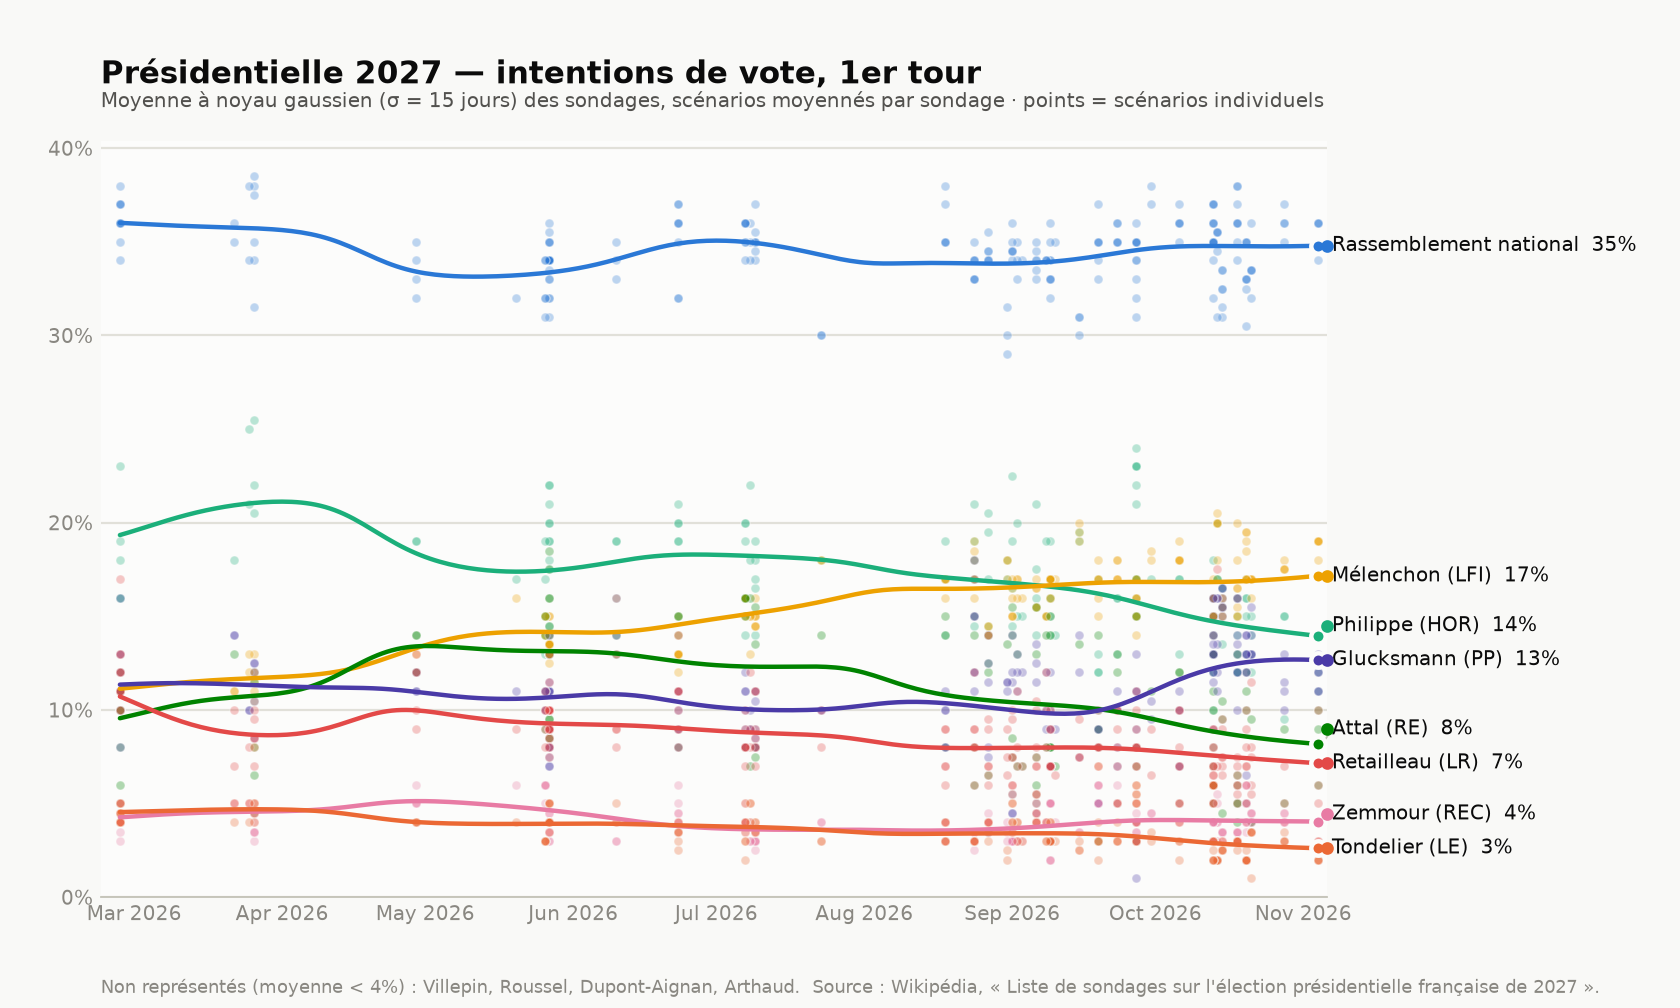
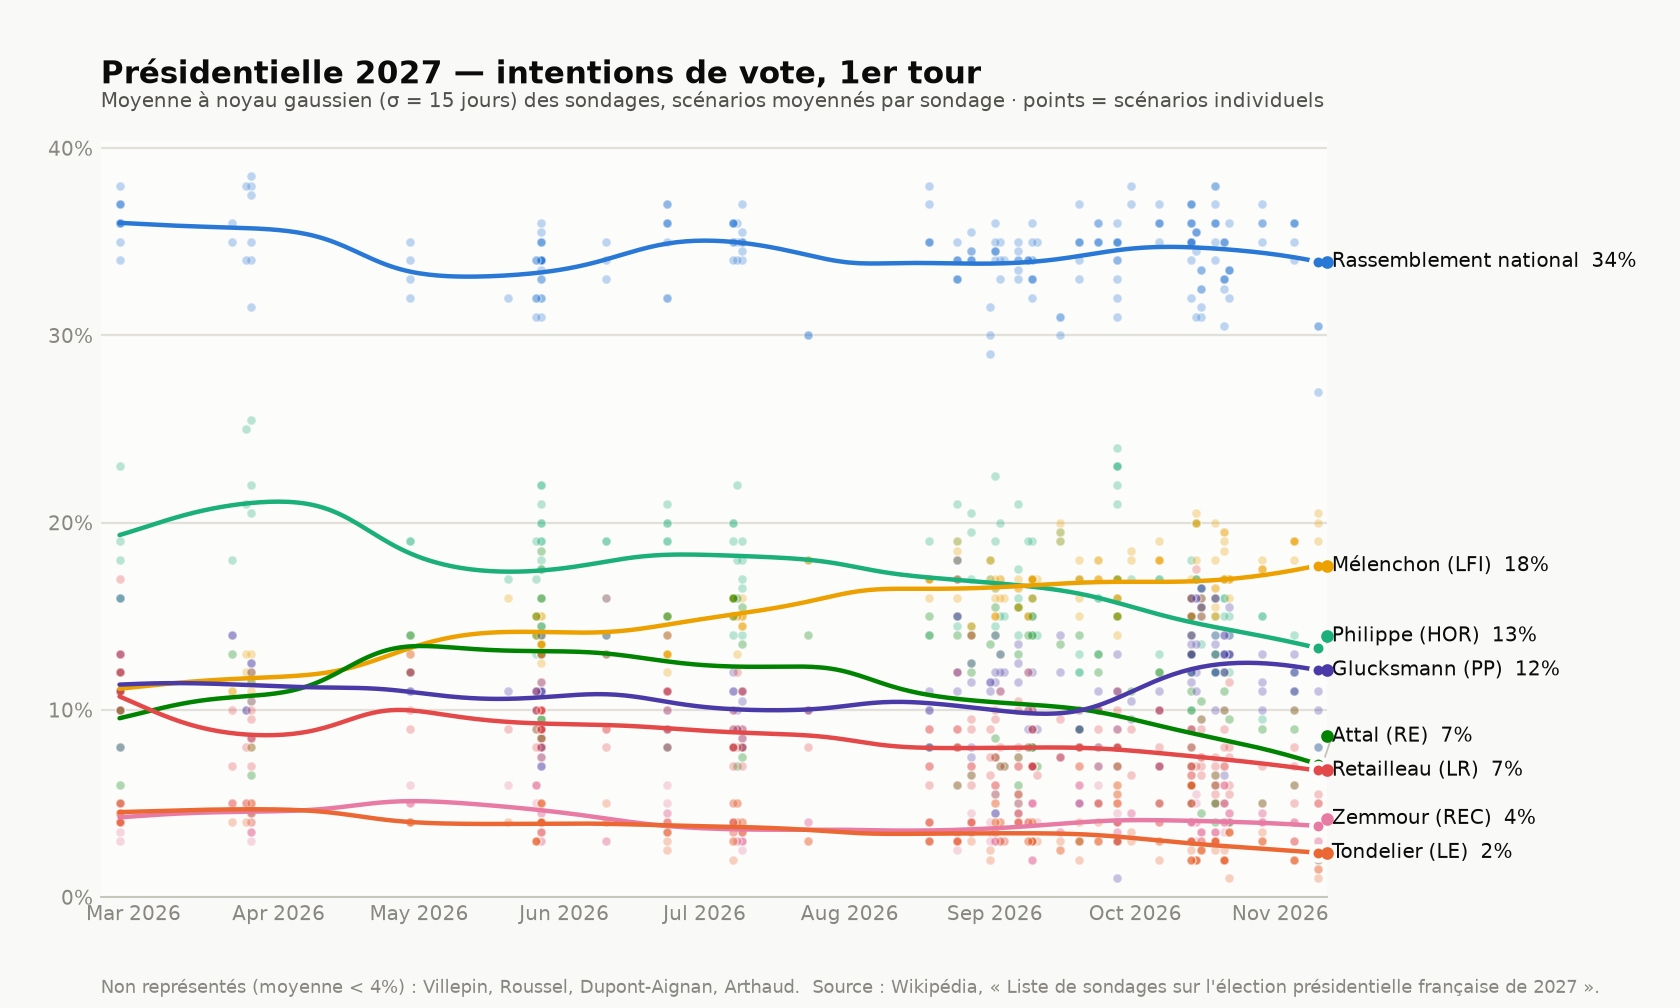
Add Cluster17 9-10 November 2026 poll (n=1164)
Three scenarios, RN (Le Pen) 27-30.5%. Christine Lagarde tested as an
independent candidate in two scenarios (8-14%), routed to Autre.

diff --git a/README.md b/README.md
@@ -61,7 +61,7 @@ python3 parse_polls.py /tmp/frelec_raw.wiki polls_2027_second_round.csv --second
 First-round voting-intention polls, January–November 2026, scraped from the French
 Wikipedia article
 ["Liste de sondages sur l'élection présidentielle française de 2027"](https://fr.wikipedia.org/wiki/Liste_de_sondages_sur_l%27%C3%A9lection_pr%C3%A9sidentielle_fran%C3%A7aise_de_2027)
-(pulled 2026-11-09).
+(pulled 2026-11-11).
 
 David Lisnard (Nouvelle Énergie) gained their own column starting with the
 17–19 October 2026 Ifop poll's sub-table ("Octobre-décembre 2026"). Earlier
@@ -106,7 +106,11 @@ Lecornu, etc.). A share Wikipedia reports only as an upper bound (e.g. `<1`)
 is encoded as the midpoint of that bound (`0.5`), with the original reading
 kept in `notes`.
 
-Latest polls: Harris (n=2101, 3–5 November, five scenarios) — RN (Le Pen)
+Latest polls: Cluster17 (n=1164, 9–10 November, three scenarios) — RN (Le Pen)
+27–30.5%, Mélenchon 19–20.5%, Glucksmann 8–11%, Philippe 8–13.5% (two
+scenarios), Lisnard 8–10%, Retailleau 5–5.5%, Attal 2% (one scenario);
+Christine Lagarde was tested as an independent candidate, folded into
+`Autre`, in two scenarios (8–14%); Harris (n=2101, 3–5 November, five scenarios) — RN (Le Pen)
 34–36%, Mélenchon 18–19%, Glucksmann 11–13%, Philippe 11–12% (two
 scenarios), Attal 6–10% (three scenarios), Retailleau 5–10%, Lisnard 9%
 (two scenarios), Villepin 2% (two scenarios); Ifop (n=1501, 27–29 October, four scenarios) — RN (Le Pen)
@@ -148,7 +152,7 @@ included in this CSV — ask if you want those pulled too.
 
 Second-round (runoff) hypothetical match-up polls, January 2024 – November 2026,
 scraped from the same Wikipedia page's "Sondages concernant le second tour"
-section (pulled 2026-11-09). Each subsection there ("Hypothèse X – Y") polls
+section (pulled 2026-11-11). Each subsection there ("Hypothèse X – Y") polls
 one specific pairing — Attal, Mélenchon, Philippe, Glucksmann and Retailleau
 each against the RN candidate (Bardella through early 2026, Le Pen from her
 2026-07-07 candidacy onward), and, from Ifop's 24–25 August 2026 poll, a first
